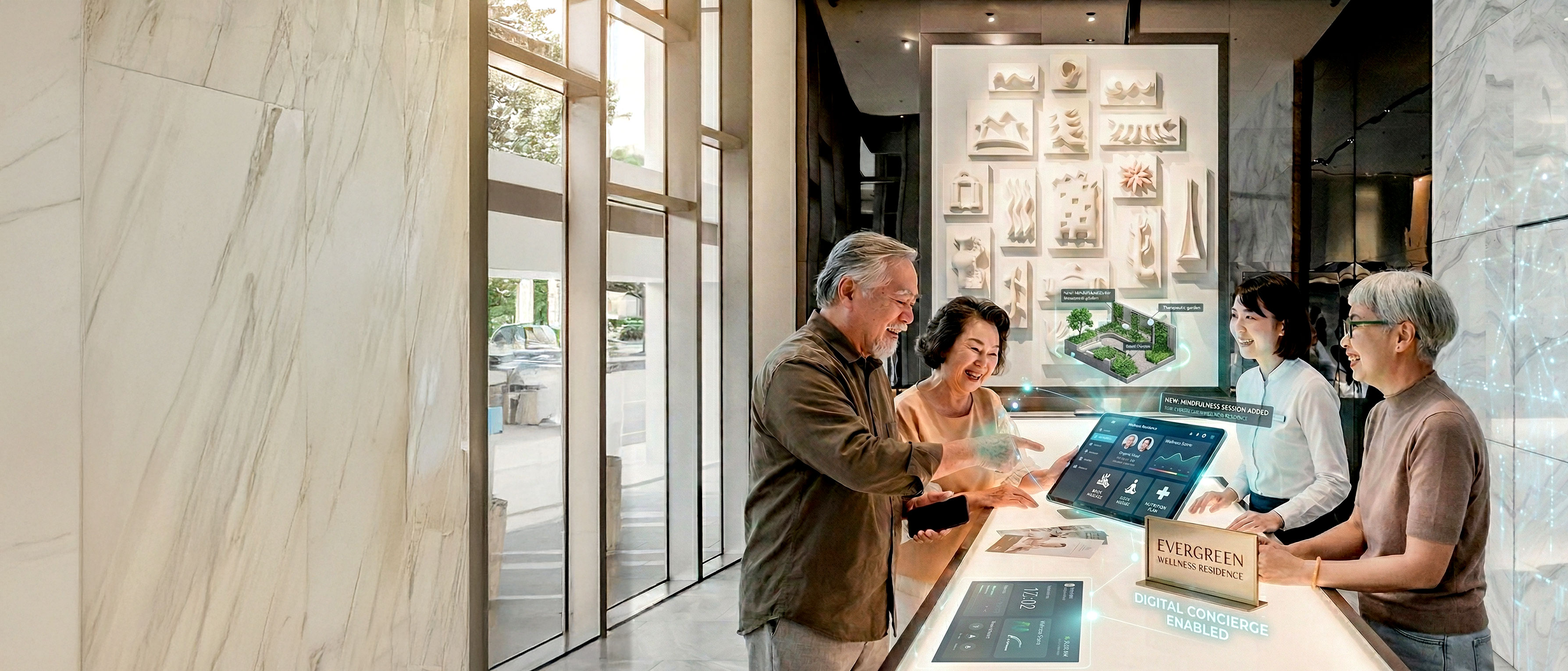
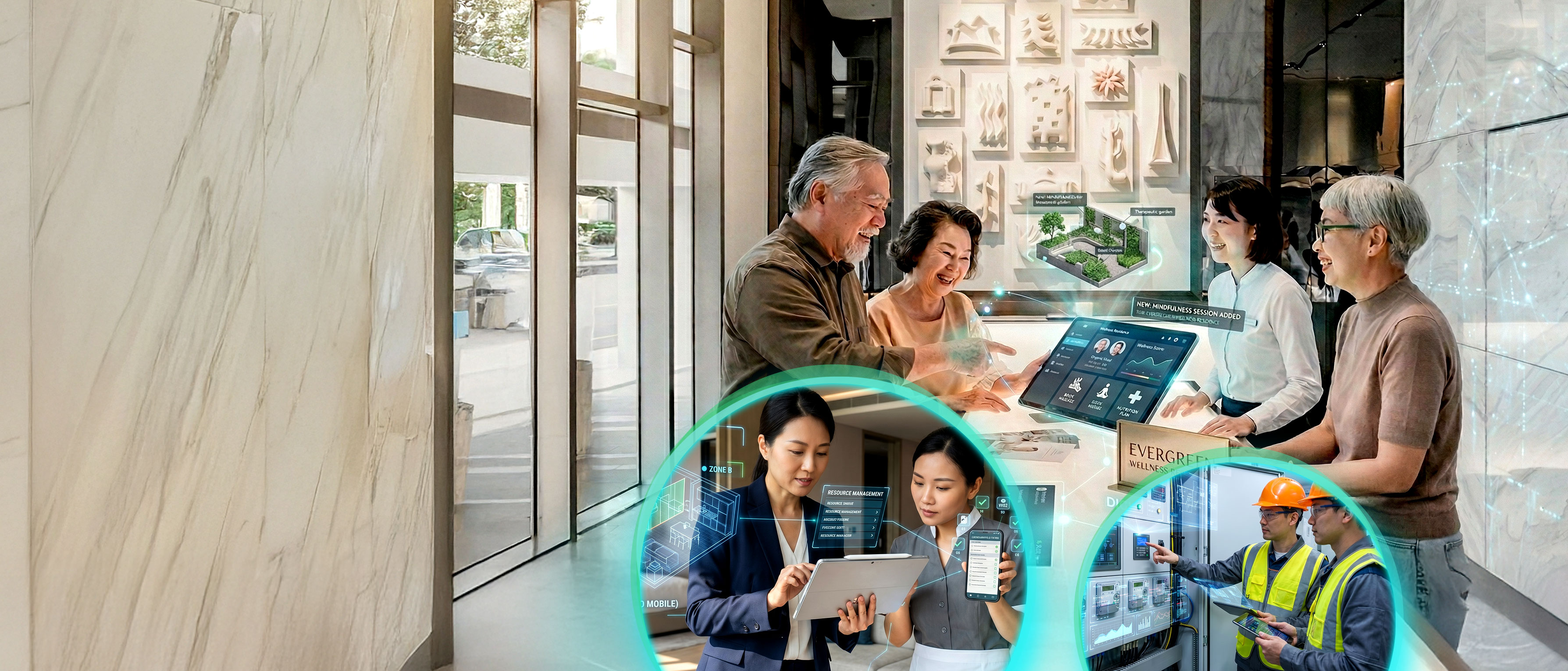
ezlife_img

diff --git a/web_EZCON_2024IntelligentBuilding/assets/css/main.css b/web_EZCON_2024IntelligentBuilding/assets/css/main.css
@@ -4928,7 +4928,7 @@ body[data-aos-easing=ease] [data-aos] {
 @media (max-width: 767px) {
   .integration-list.type2 li span:nth-child(3) {
     display: block;
-    margin-left: 4.5rem;
+    margin-left: 4.2rem;
     font-size: 50%;
   }
 }
@@ -8129,7 +8129,7 @@ img {
     left: 0;
     padding-right: 0;
     max-width: 100%;
-    top: 16rem;
+    top: 18rem;
   }
 }
 @media only screen and (min-width: 576px) and (max-width: 767px) {
@@ -8166,9 +8166,9 @@ img {
     height: 600px;
   }
   .blog-slide-item.type2 .xb-item--img img {
-    height: 40%;
+    height: 46%;
     object-fit: cover;
-    object-position: -130px 0;
+    object-position: -200px 0;
   }
 }
 @media (max-width: 767px) {
@@ -8196,7 +8196,7 @@ img {
     right: 15px;
     bottom: 18px;
     left: 8rem;
-    top: 13.5rem;
+    top: 16rem;
   }
 }
 @media only screen and (min-width: 576px) and (max-width: 767px) {
@@ -8264,7 +8264,7 @@ img {
 }
 @media (max-width: 767px) {
   .blog-item_button .blog-swiper-btn {
-    top: 41.5%;
+    top: 46%;
   }
 }
 .blog-item_button .blog-swiper-btn::after {

diff --git a/web_EZCON_2024IntelligentBuilding/css/ez.css b/web_EZCON_2024IntelligentBuilding/css/ez.css
@@ -82,7 +82,7 @@ header *, .hover *, #mainmenu * {
 }
 @media (max-width: 768px) {
   .mobile_bg.type3 {
-    object-position: 74% -138px !important;
+    object-position: 75% -95px !important;
   }
 }
 
@@ -1059,6 +1059,8 @@ footer .logo img {
   .c-item_title {
     font-size: 13px;
     padding: 0.4rem 0.8rem;
+    max-width: 150%;
+    margin-bottom: -20%;
   }
 }
 
